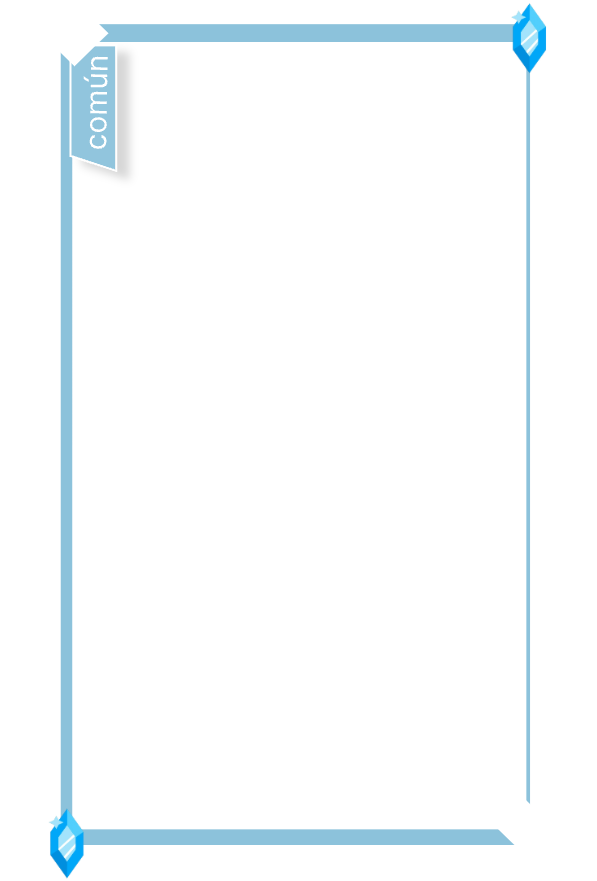
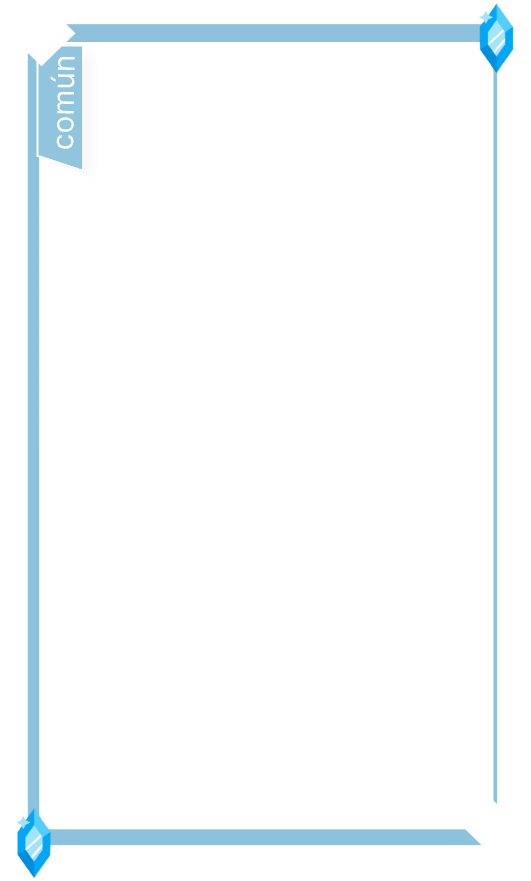
cards resolution

Changed region(s): [[0.0301, 0.0306, 0.2411, 1.0], [0.8437, 0.0, 0.9642, 0.9807]]

diff --git a/src/components/Cards/CharacterCard.jsx b/src/components/Cards/CharacterCard.jsx
@@ -12,12 +12,6 @@ const CharacterCard = ({
   existingCards,
   loading,
 }) => {
-  // const findButtonIcon = () => {
-  //   return Object.keys(IconButtons).find(
-  //     (key) => IconButtons[key] === "sparkle"
-  //   );
-  // };
-
   return (
     <div key={index} className="flex relative">
       <div
@@ -27,9 +21,6 @@ const CharacterCard = ({
           src={`/assets/${character.borderColorClass}.png`}
           alt=""
           className="borderGeneral flex items-center "
-          style={{
-            transform: "scale(1.13, 1)",
-          }}
         />
         {character.images && character.images.jpg && (
           <img

diff --git a/public/css/cards.css b/public/css/cards.css
@@ -1,12 +1,9 @@
-.car{
-    margin-top: 7%;
-    margin-bottom: 50px;
-    gap: 20px;
-    justify-content: center
+.car {
+  margin-top: 7%;
+  margin-bottom: 50px;
+  gap: 20px;
+  justify-content: center;
 }
-.lanzarCards{
-    left: 0;
-}
-.intentos{
-    margin-bottom: 40px;
+.lanzarCards {
+  left: 0;
 }
